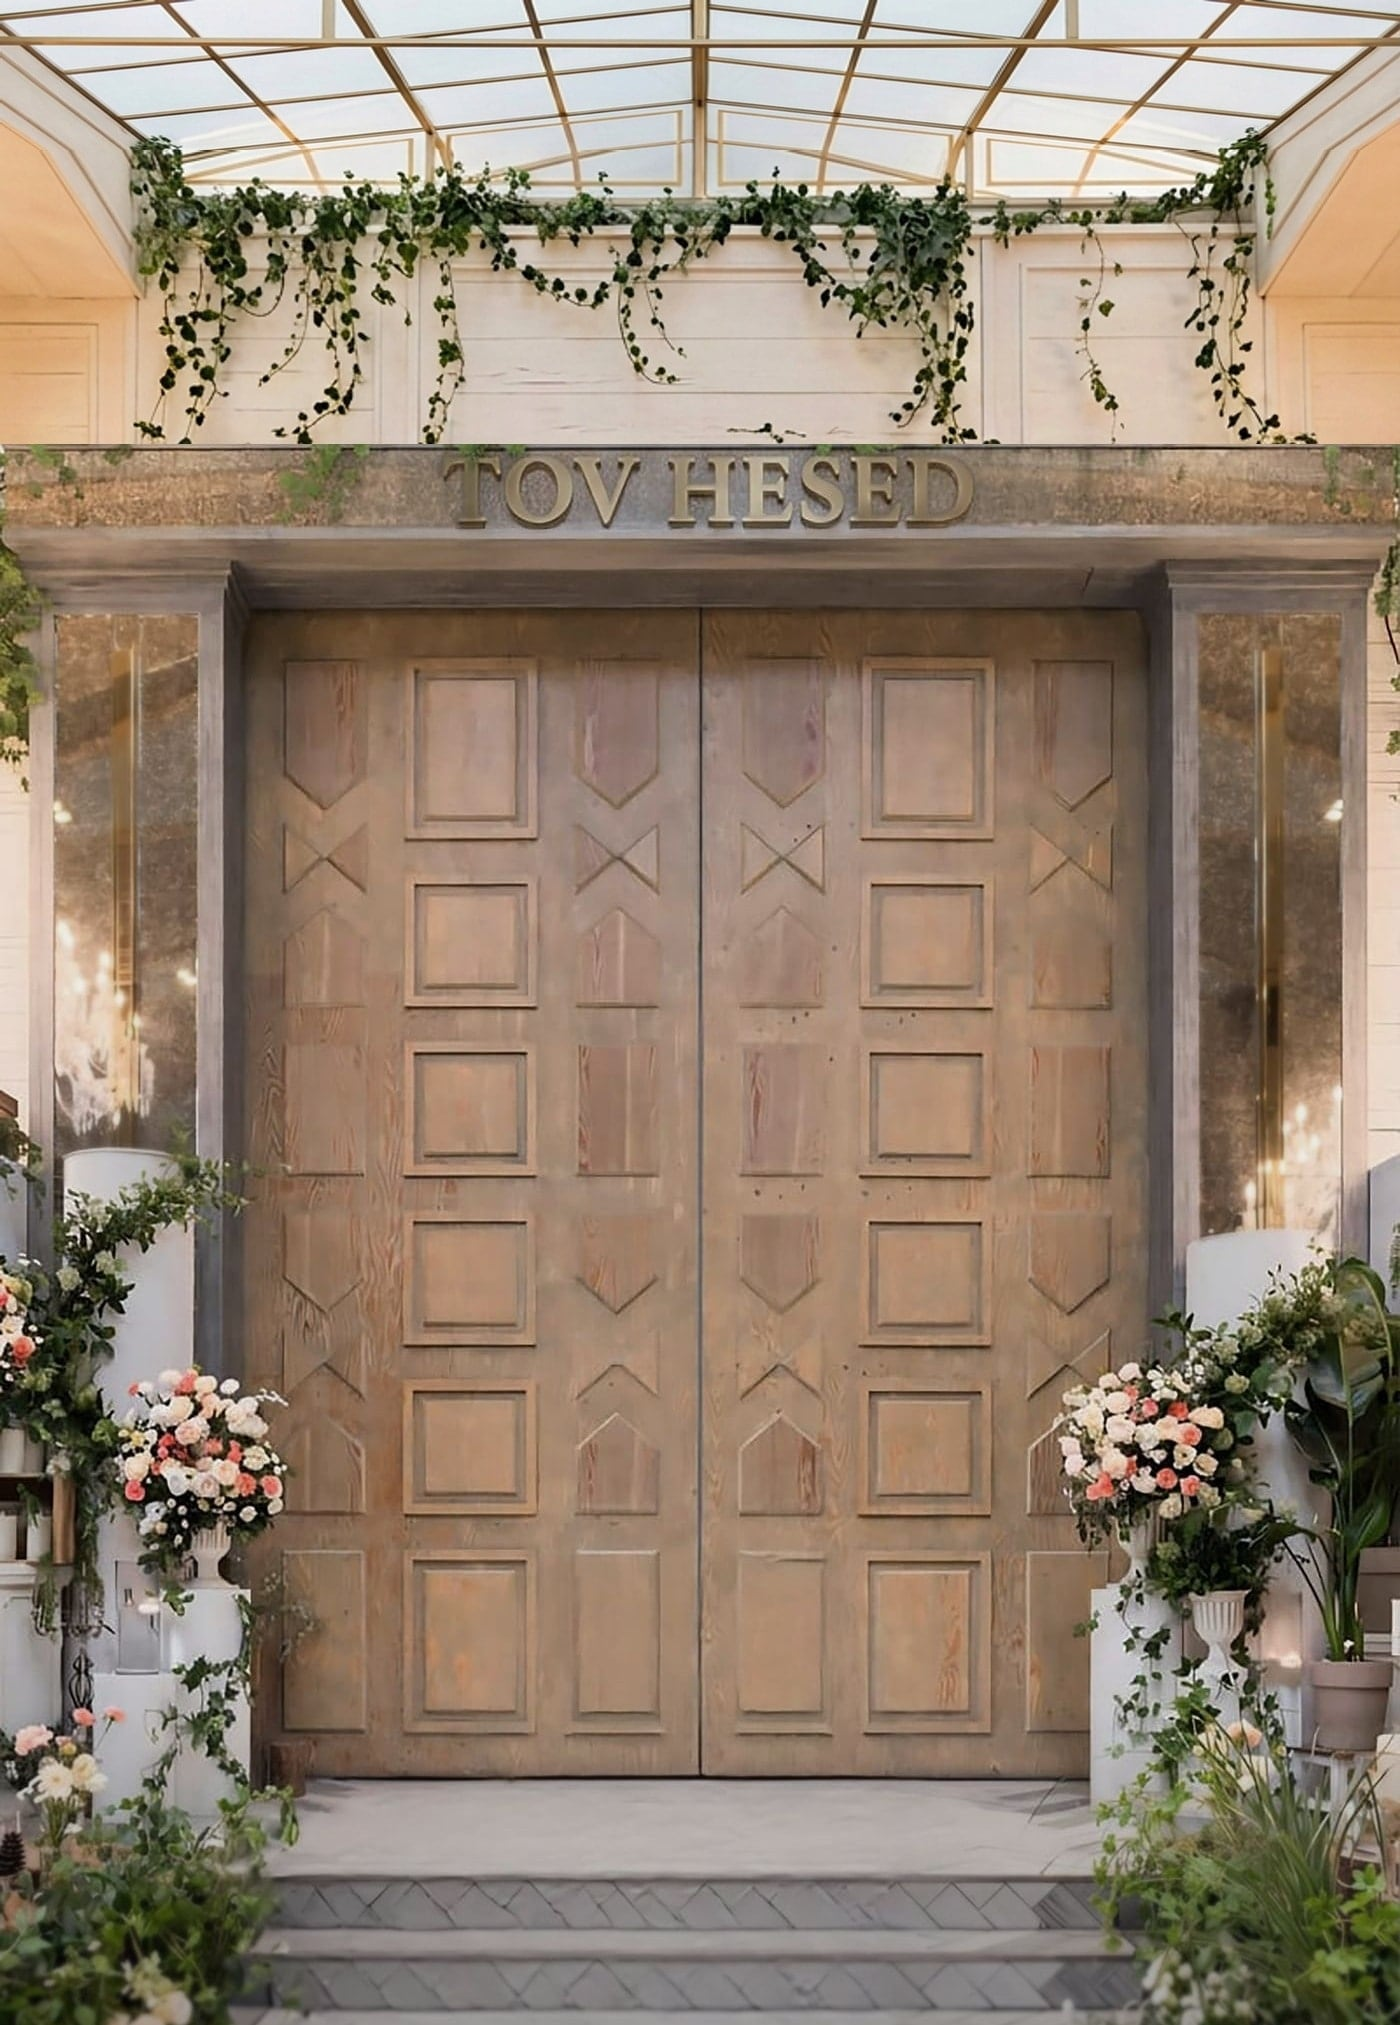
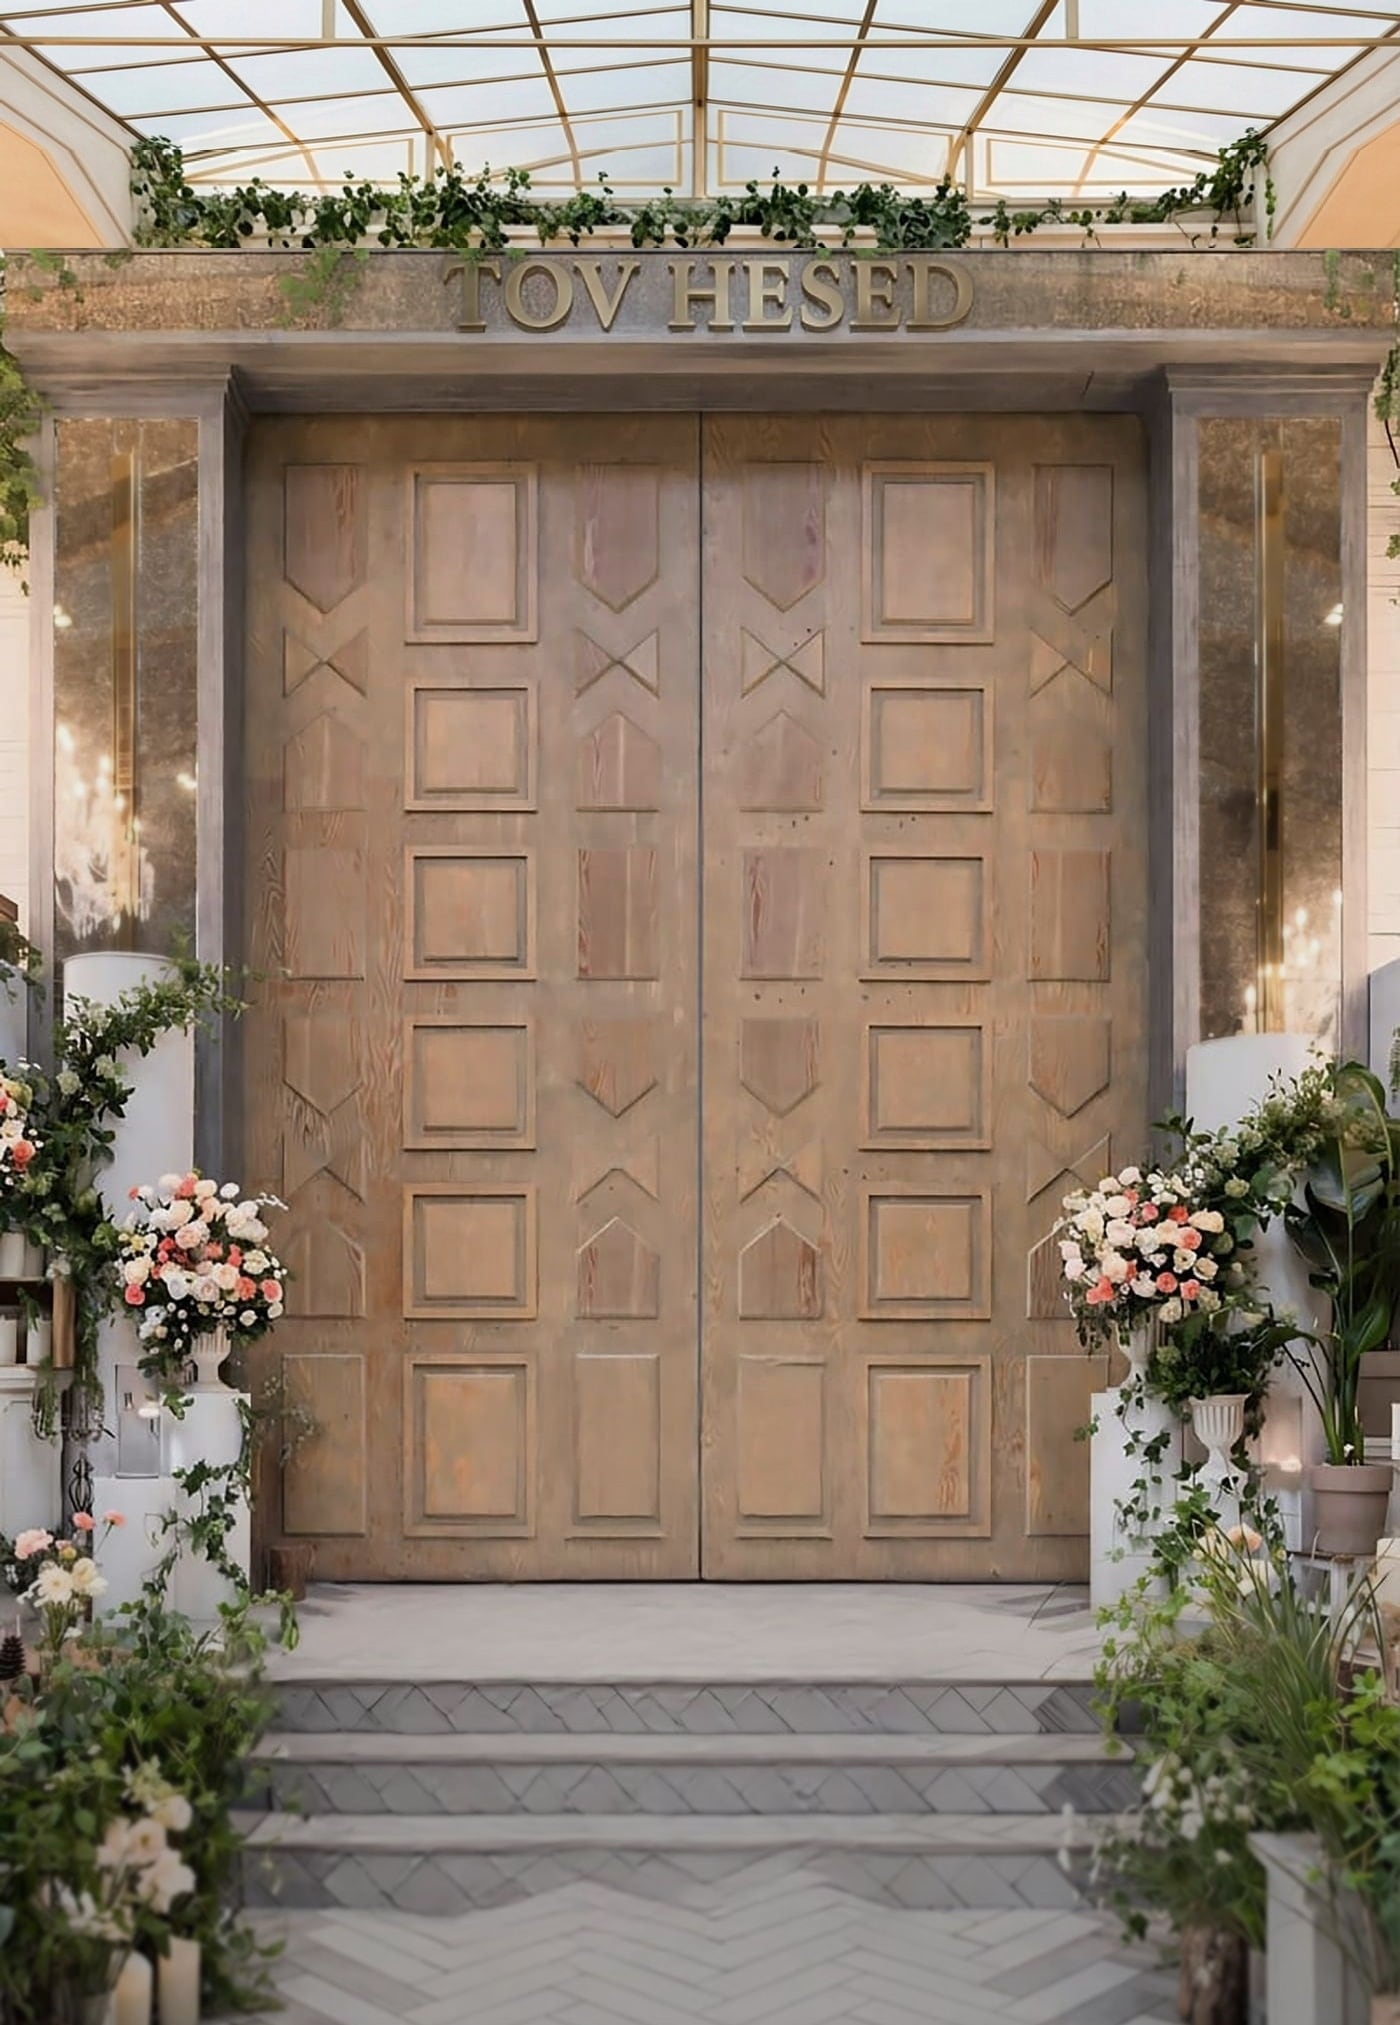
fix: 유리천장과 대문 사이 아이비 벽 띠를 1/3 로 줄임
아이비가 늘어진 크림색 벽 띠가 294px 로 길어 첫 화면에서 자리를 많이 차지했다.
잎이 빽빽한 위쪽 1/3 만 남기고 늘어진 덩굴 끝과 빈 벽은 잘랐다 (눌러 넣으면
잎이 찌그러져서 자르는 쪽을 택했다).

- 띠 294 → 98px. 문 위 여백 253 → 171px, 문 아래 계단 103 → 185px
- 문 크기·이름 위치(문 세로 중앙)는 그대로
- 조정은 tools/build-door.mjs 의 IVY_H

diff --git a/index.html b/index.html
@@ -29,7 +29,7 @@
 :root{
   --img-w: 1400; --img-h: 2025;
   --door-l: 17.429%;  --door-r: 82.214%;
-  --door-t: 29.926%;  --door-b: 87.753%;
+  --door-t: 20.247%;  --door-b: 78.074%;
   --door-c: 50.000%;
   --ink:#3a352f; --paper:#fbf9f6;
   --p:0;            /* 스크롤 진행률 0~1 */

diff --git a/README.md b/README.md
@@ -85,17 +85,17 @@ p 0.55~1.00    사진 + 날짜가 아래에서 위로 상승
 |---|---|---|---|
 | door-2 원본 | 187px | 480px | 90px |
 | door-4 (AI 로 문 위를 채운 것) | 148px | 354px | 276px |
-| **door-5 (지금)** | **190px** | **488px** | **253px** |
+| **door-5 (지금)** | **190px** | **488px** | **171px** |
 
 door-4 를 그대로 쓰지 않는 이유 = 800px 로 작아 나뭇결·조각이 뭉갠다. Gemini 는 1400×2352 를 요청해도 800×1344 로만 출력한다(2회 실측). 그래서 문짝·문틀은 촬영 원본 door-2(1400px)를 그대로 쓰고, 문 위 유리천장·아이비만 door-4 에서 가져와 붙였다.
 
-위를 채운 만큼 문 아래 계단이 줄어든다 — 화면 높이가 정해져 있어 위아래가 서로 자리를 뺏는다. `GLASS 150`(원래 333px 을 45% 로 누름) 에서 문 위 253px · 문 아래 103px.
+위를 채운 만큼 문 아래 계단이 줄어든다 — 화면 높이가 정해져 있어 위아래가 서로 자리를 뺏는다. `GLASS 150`(원래 333px 을 45% 로 누름) + `IVY_H 56`(아이비 띠 위쪽 1/3 만) 에서 문 위 171px · 문 아래 185px.
 
 ```css
 --door-l: 17.429%;  /* 문 왼쪽 끝 */
 --door-r: 82.214%;  /* 문 오른쪽 끝 */
---door-t: 29.926%;  /* 문 위쪽 */
---door-b: 87.753%;  /* 문 아래쪽 */
+--door-t: 20.247%;  /* 문 위쪽 */
+--door-b: 78.074%;  /* 문 아래쪽 */
 --door-c: 50.000%;  /* 두 문짝 분할선 */
 --shift-x:  0.35%;  /* 첫 화면 좌우 이동. +면 오른쪽 */
 ```
